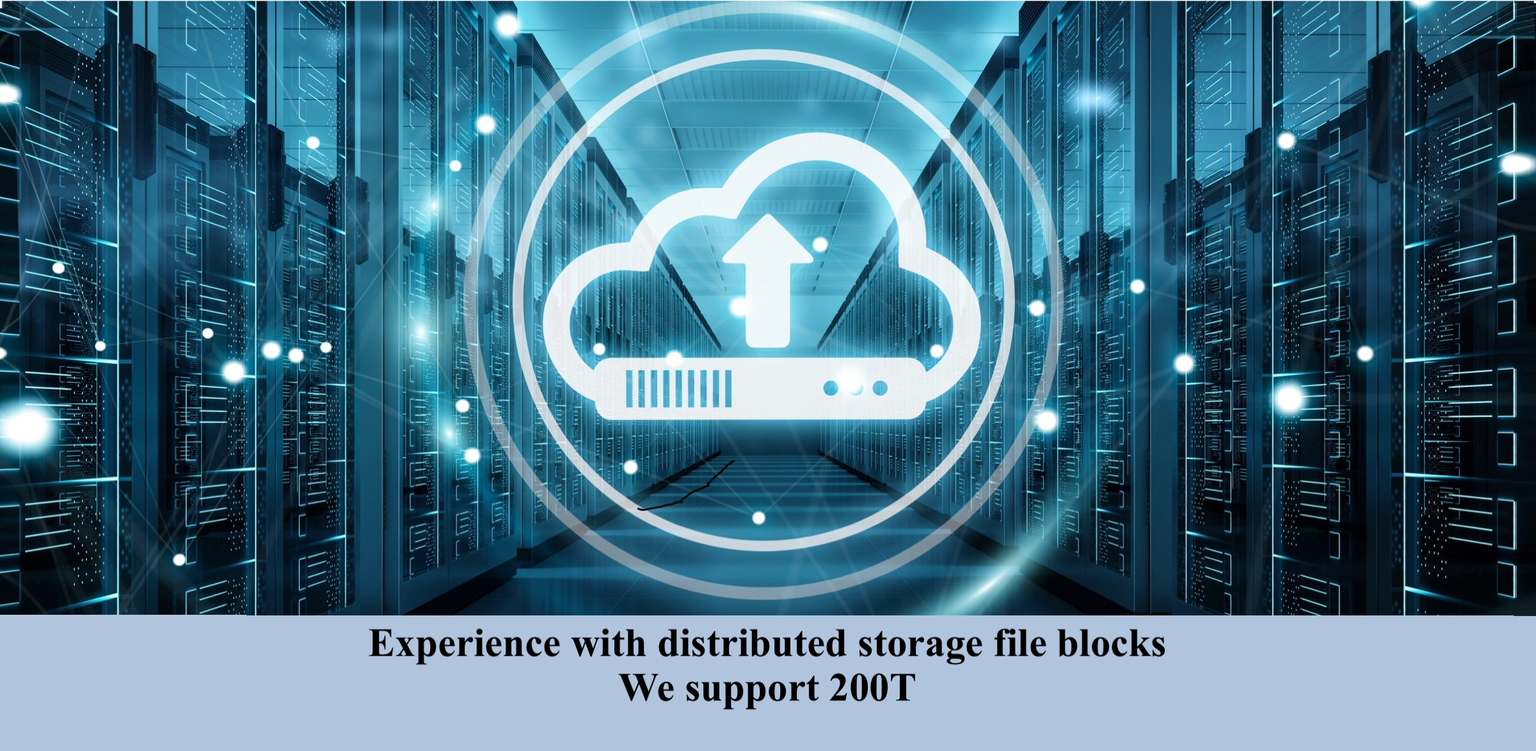
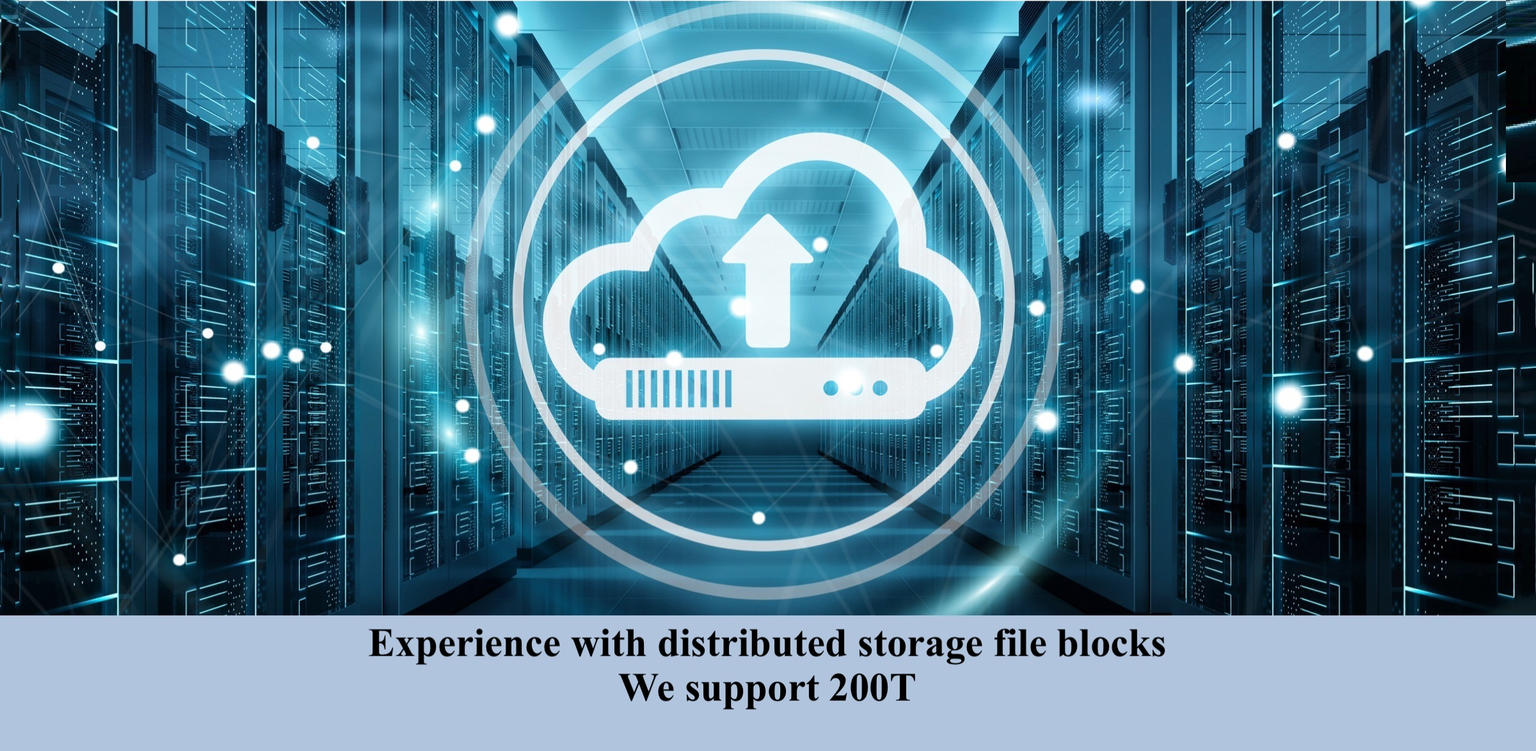
[FIX] Picture In Homepage

diff --git a/src/container/Home/Slider.react.js b/src/container/Home/Slider.react.js
@@ -26,14 +26,14 @@ export class HomeSlide extends React.Component {
 				</div>
 				<Carousel autoplay>
 					<div>
-						<img style={imageFit} src={require('../../assets/resumable2.jpg')} />
+						<img style={imageFit} src={require('../../assets/resumable.jpg')} />
 						
 					</div>
 					<div>
-						<img style={imageFit} src={require('../../assets/instant3.jpg')} />					
+						<img style={imageFit} src={require('../../assets/instant.jpg')} />					
 					</div>
 					<div>
-						<img style={imageFit} src={require('../../assets/storage2.jpg')} />						
+						<img style={imageFit} src={require('../../assets/storage.jpg')} />						
 					</div>
 				</Carousel>
 			</div>
